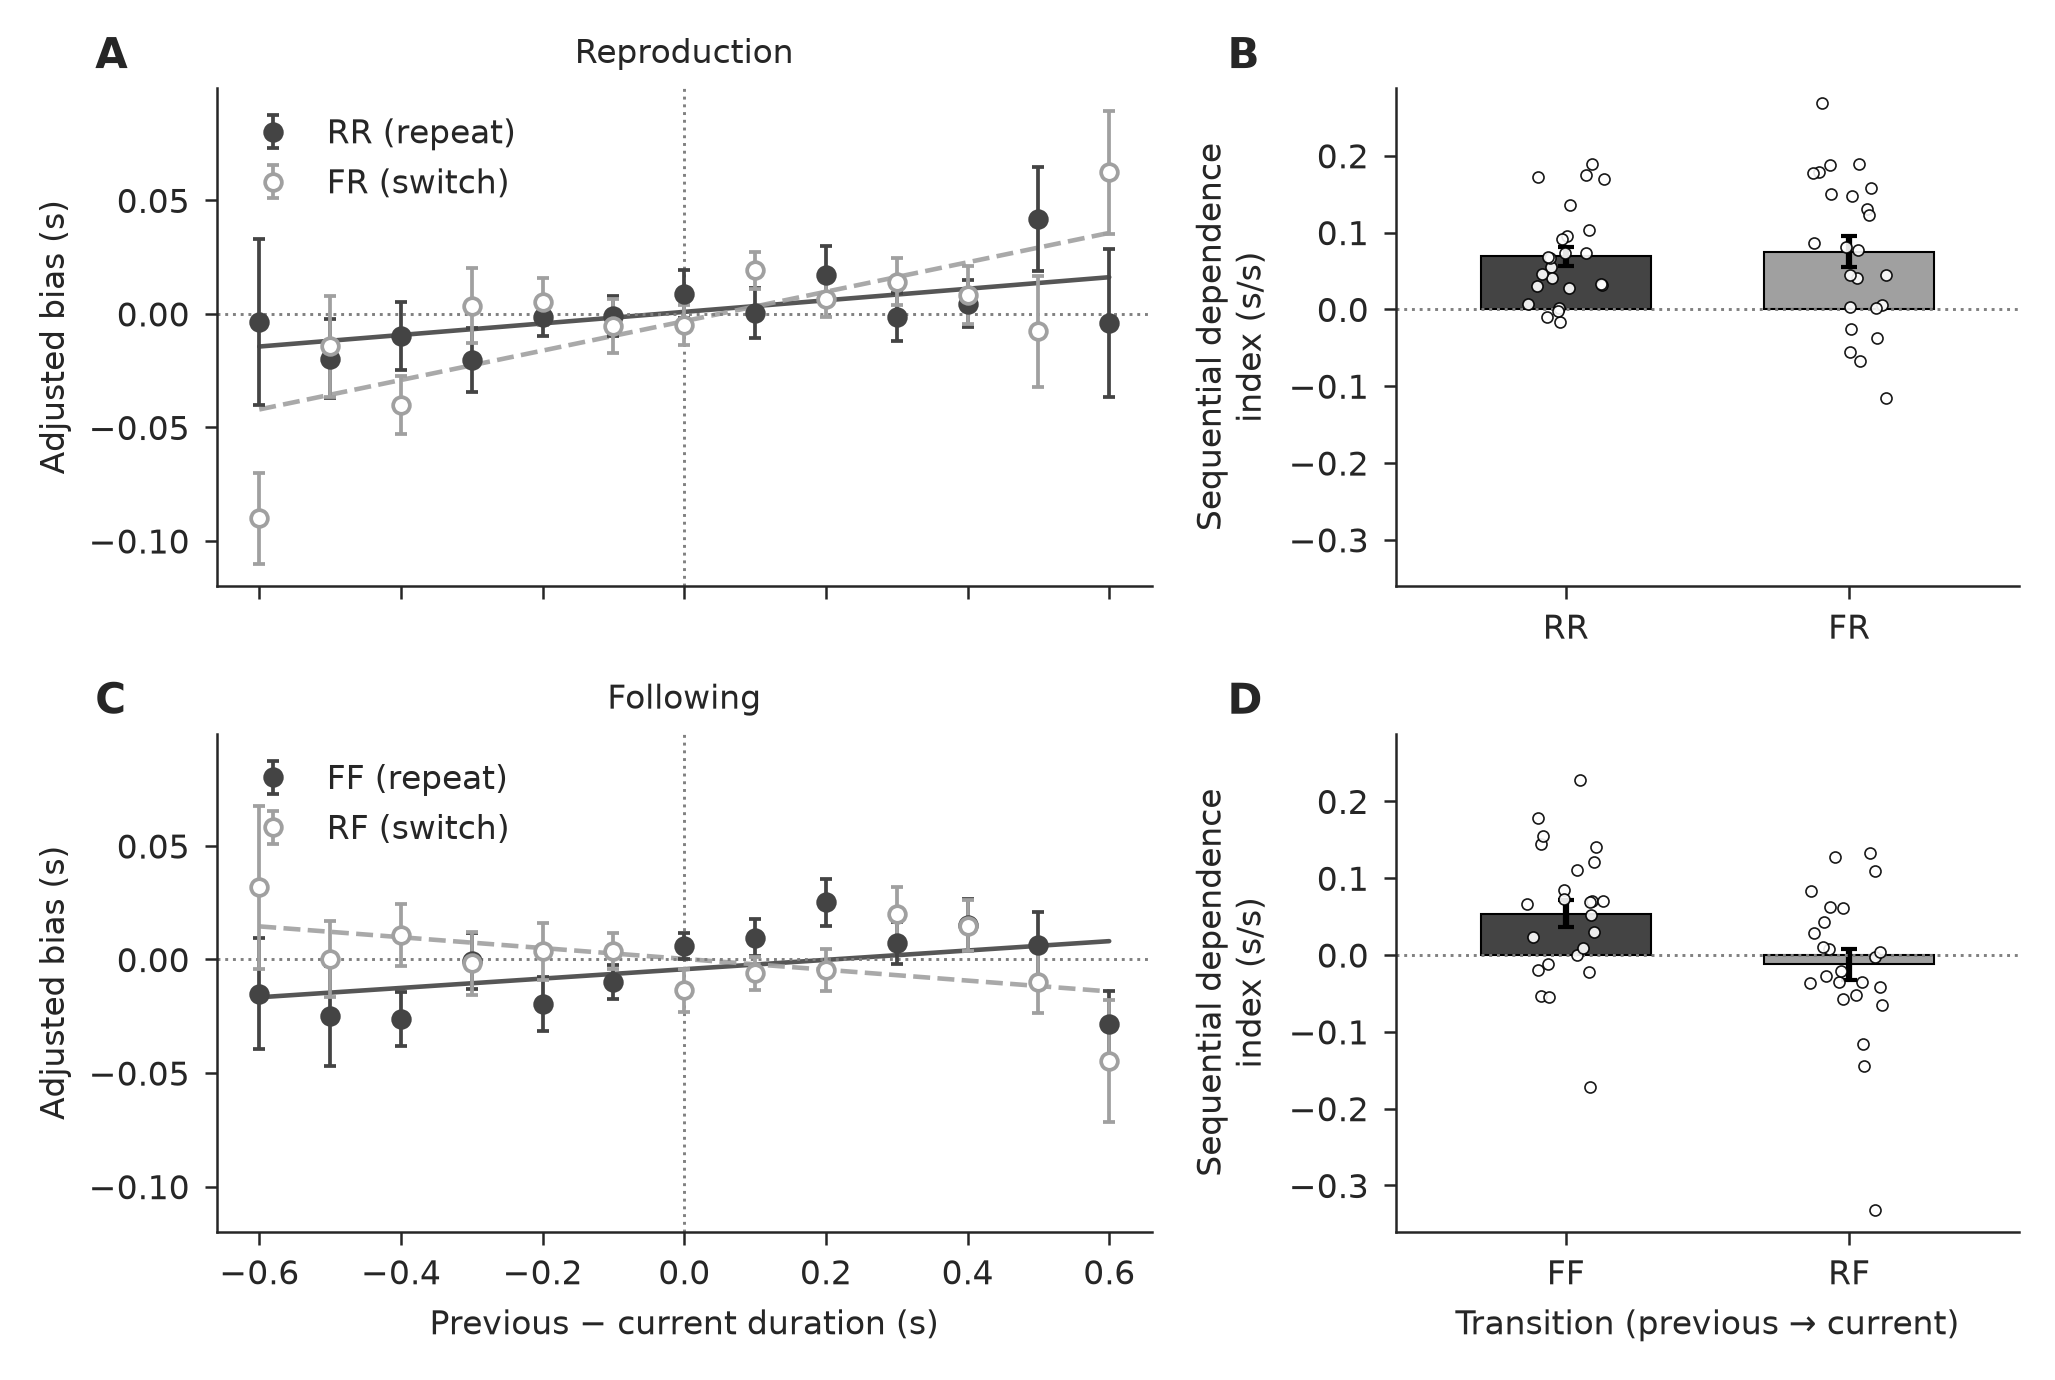
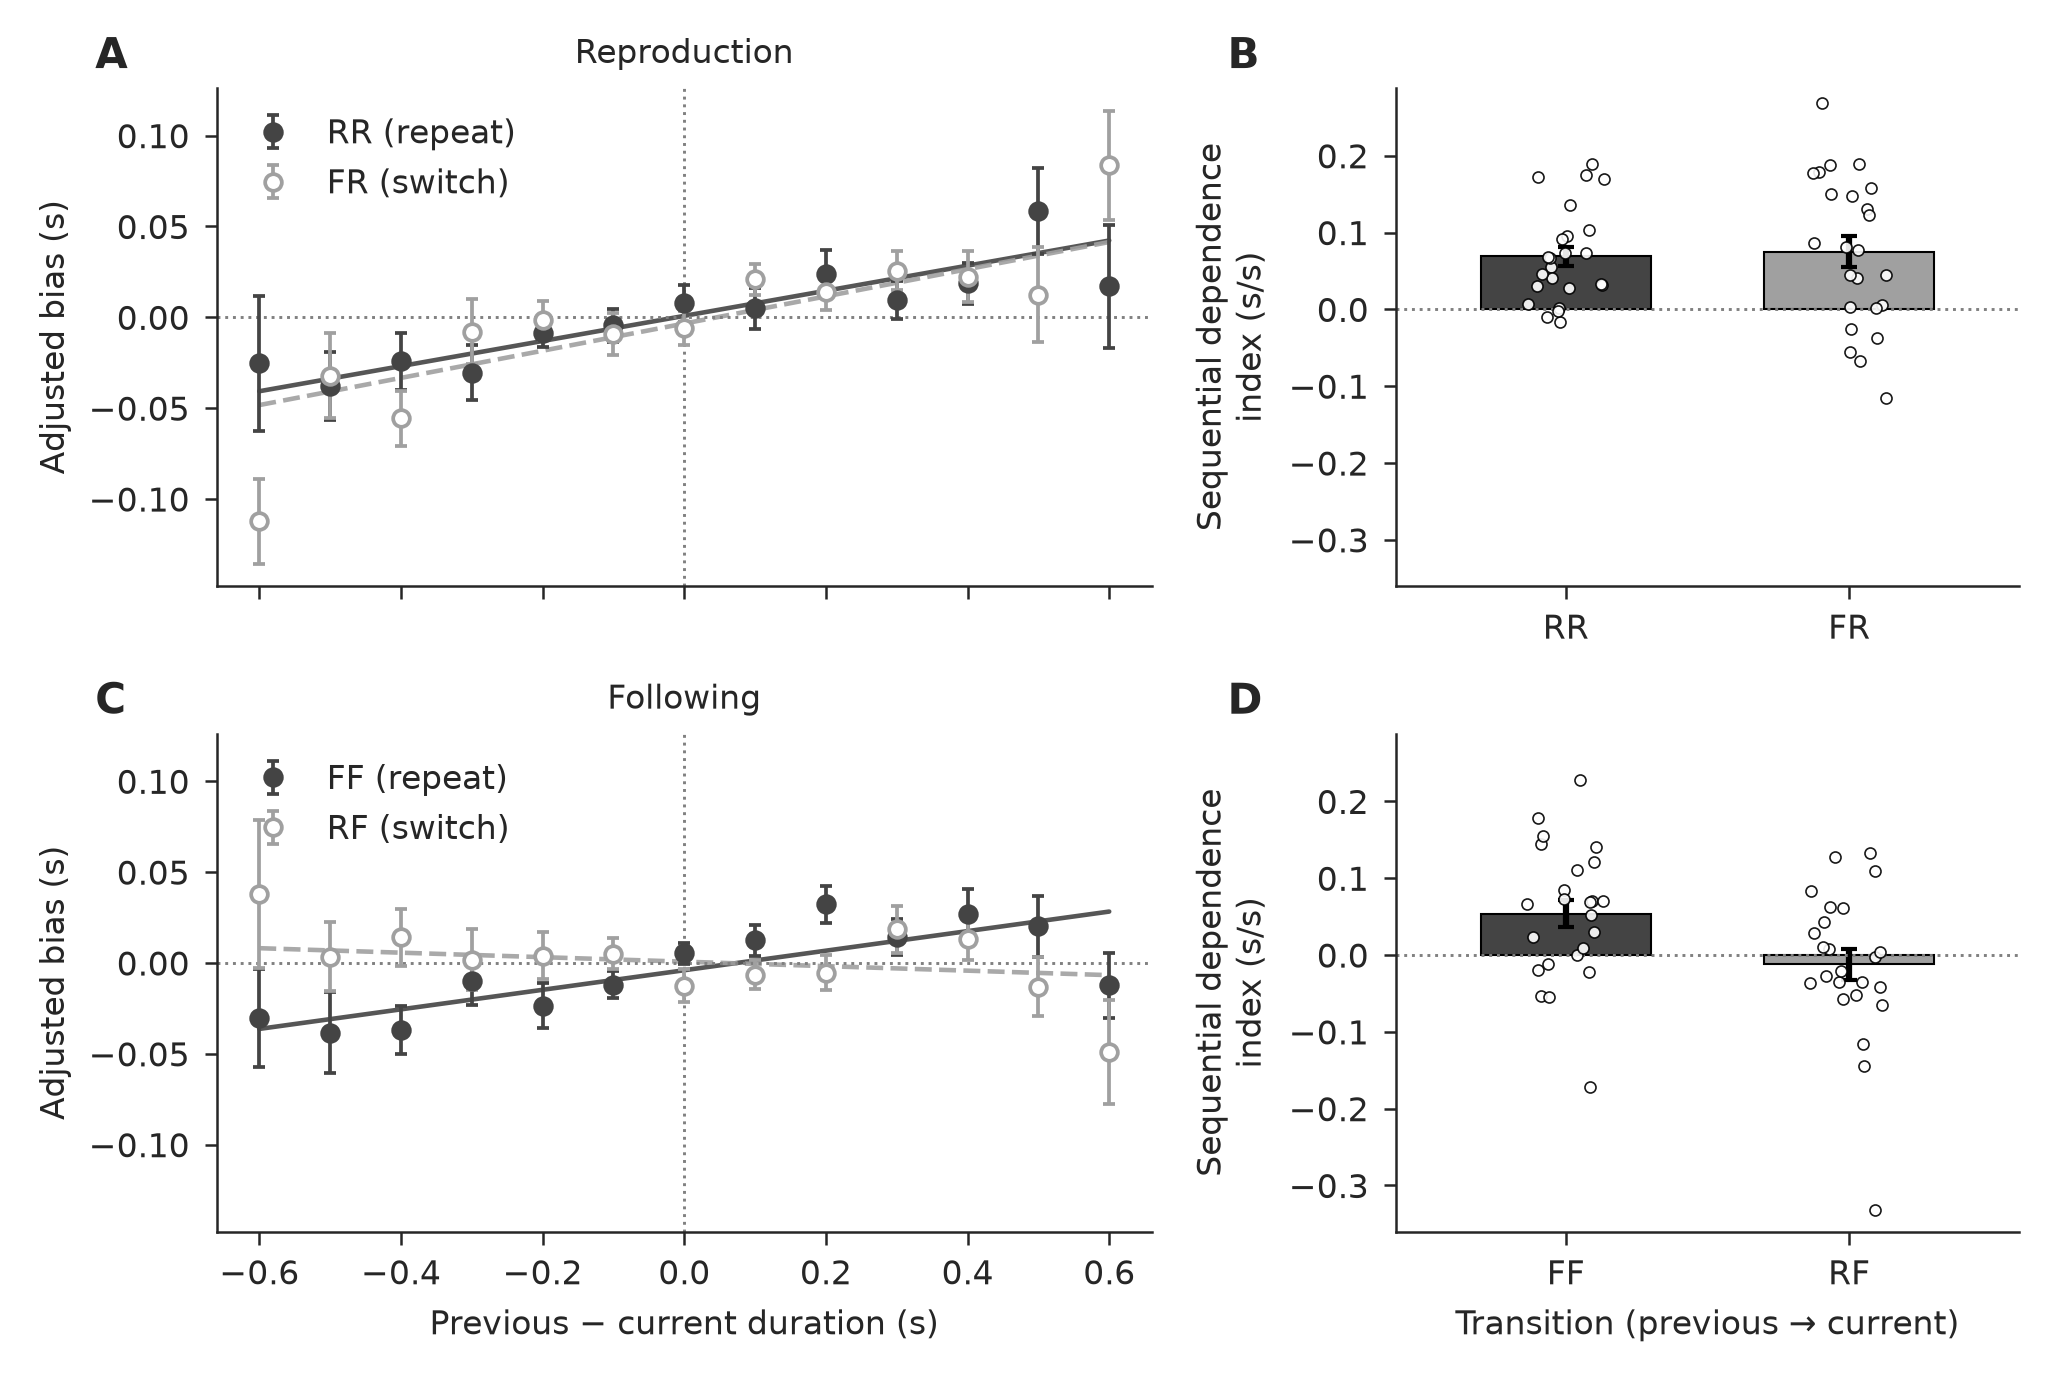
Figure 2: lines drawn with the reported SDIs (relative-duration adjustment)

diff --git a/code/run_analyses.py b/code/run_analyses.py
@@ -316,7 +316,7 @@ STYLE = {"reproduction": ("o", True, "-"), "following": ("s", True, "--"),
          "repeat": ("o", True, "-"), "switch": ("o", False, "--")}
 
 
-def points_and_fit(ax, data, x, y, hue, palette, xs=None):
+def points_and_fit(ax, data, x, y, hue, palette, xs=None, slopes=None):
     for lvl, col in palette.items():
         d = data[data[hue] == lvl]
         agg = d.groupby(x)[y].agg(["mean", "sem"]).reset_index()
@@ -326,6 +326,8 @@ def points_and_fit(ax, data, x, y, hue, palette, xs=None):
         # fit on participant-level means so the line matches the participant-level slope
         per = d.groupby(["nPar", x])[y].mean().reset_index()
         b = np.polyfit(per[x], per[y], 1)
+        if slopes is not None:   # draw the reported (participant-mean) slope through the data
+            b = np.array([slopes[lvl], (per[y] - slopes[lvl] * per[x]).mean()])
         gx = np.linspace(per[x].min(), per[x].max(), 50) if xs is None else xs
         ax.plot(gx, np.polyval(b, gx), ls, color=col, lw=1.1, alpha=0.9, zorder=2)
 
@@ -354,7 +356,10 @@ plt.close(fig)
 # left: bias adjusted for central tendency vs relative previous duration; right: SDI per transition (3:2 widths)
 # adjusted bias = bias − participant/transition CTI slope × (T_n − 1.1) − intercept  (removes the central-tendency component)
 adj_lookup = adj.set_index(["nPar", "transition"])
-df_seq["bias_adj"] = df_seq.apply(lambda r: r["bias"] - adj_lookup.loc[(r["nPar"], r["transition"]), "cti_adj"] * r["curDur_c"]
+# joint model: bias = c + b*T_n + d*T_{n-1} = c + (b + d)*T_n + d*(T_{n-1} - T_n), so removing c + (b + d)*T_n
+# leaves d*(relative previous duration): the plotted slope equals the reported SDI
+df_seq["bias_adj"] = df_seq.apply(lambda r: r["bias"] - (adj_lookup.loc[(r["nPar"], r["transition"]), "cti_adj"]
+                                                         + adj_lookup.loc[(r["nPar"], r["transition"]), "sdi_adj"]) * r["curDur_c"]
                                   - adj_lookup.loc[(r["nPar"], r["transition"]), "Intercept"], axis=1)
 df_seq["relPre_r"] = df_seq["relPre"].round(1)
 order = ["RR", "FR", "FF", "RF"]
@@ -367,7 +372,9 @@ for r, (task, pair, labels) in enumerate(rows):
     ax, bx = axes[r]
     d = df_seq[df_seq.curTask == task]
     pa = d.groupby(["nPar", "taskSwitch", "relPre_r"], as_index=False)["bias_adj"].mean()
-    points_and_fit(ax, pa, "relPre_r", "bias_adj", "taskSwitch", SWITCH_COL, xs=np.linspace(-0.6, 0.6, 50))
+    sdi_mean = adj.groupby("transition")["sdi_adj"].mean()
+    points_and_fit(ax, pa, "relPre_r", "bias_adj", "taskSwitch", SWITCH_COL, xs=np.linspace(-0.6, 0.6, 50),
+                   slopes={"repeat": sdi_mean[pair[0]], "switch": sdi_mean[pair[1]]})
     ax.axhline(0, color="grey", ls=":", lw=0.7); ax.axvline(0, color="grey", ls=":", lw=0.7)
     ax.set(ylabel="Adjusted bias (s)", title=task.capitalize())
     h, l = ax.get_legend_handles_labels(); ax.legend(h, [labels[x] for x in l], frameon=False, loc="upper left")
